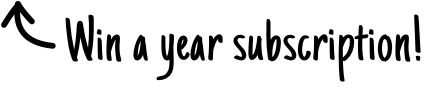
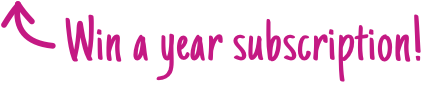
Styling updates

Changed region(s): [[0.0, 0.0, 0.9977, 0.9111]]

diff --git a/app/assets/stylesheets/users.scss b/app/assets/stylesheets/users.scss
@@ -141,7 +141,7 @@ margin: 60px 60px 60px;
     float: left;
     display: inline-block;
     padding: 12px 19px 12px 20px;
-    background-color: #424242;   
+    background-color: #C41983;   
     /* jrose end */
 }
 
